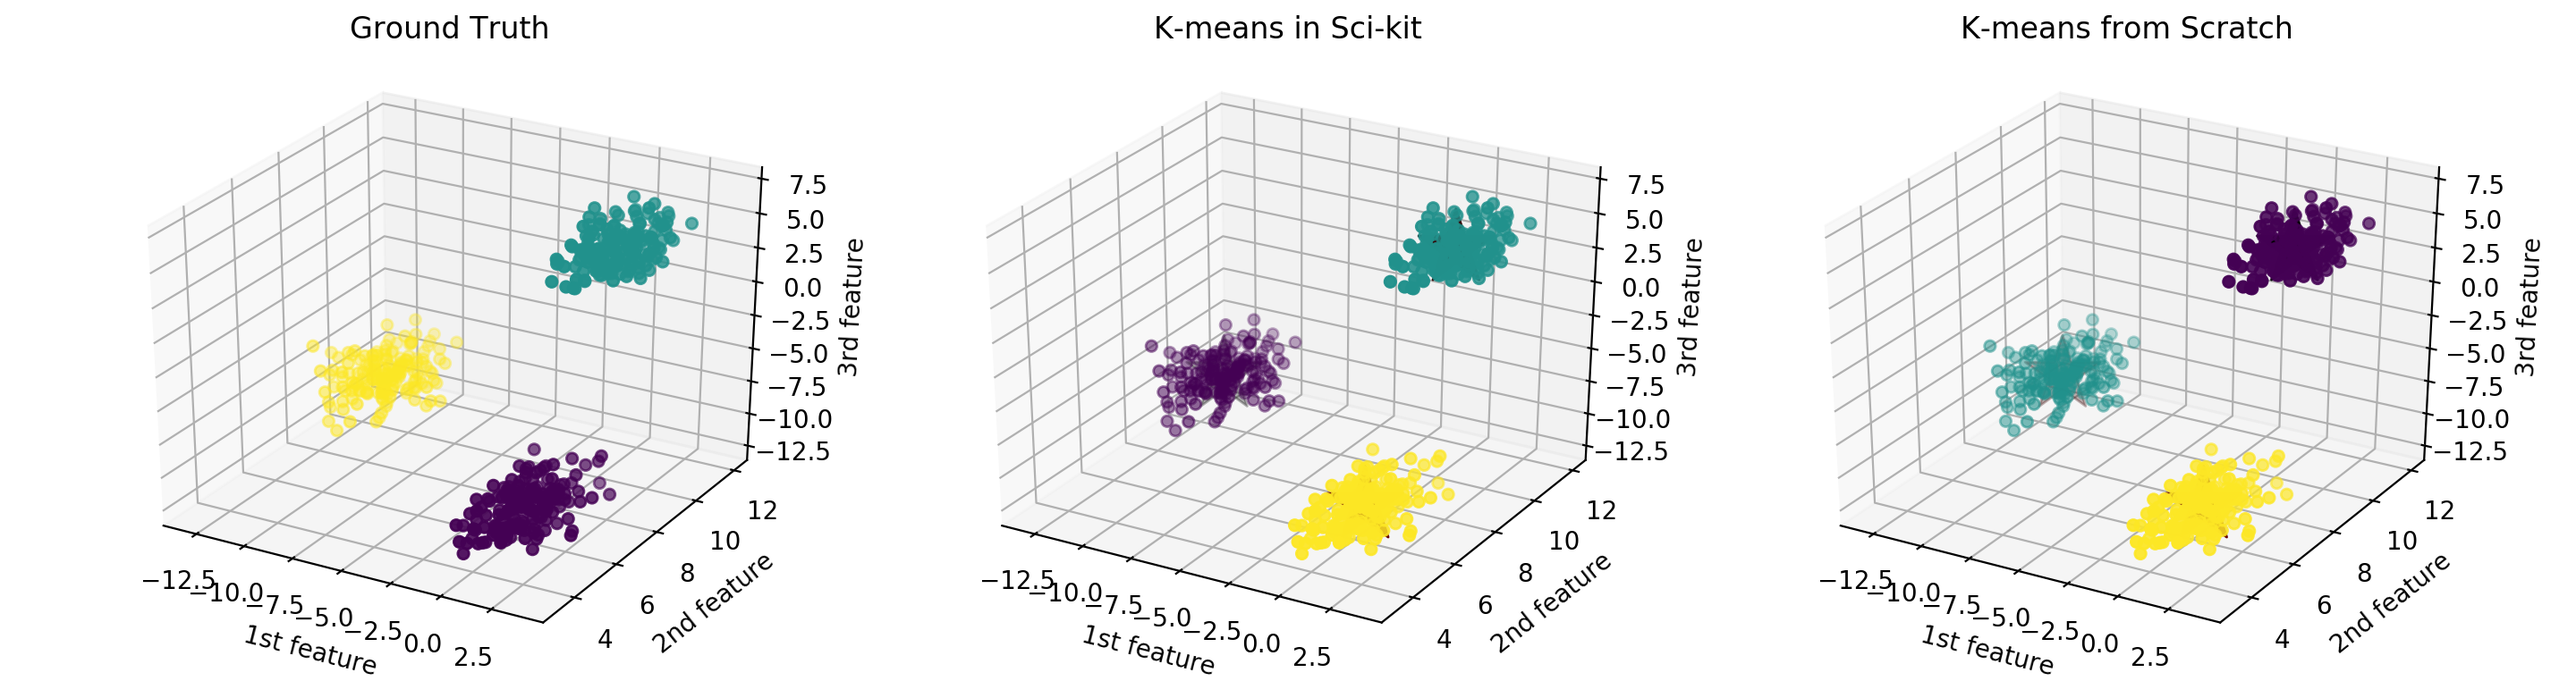
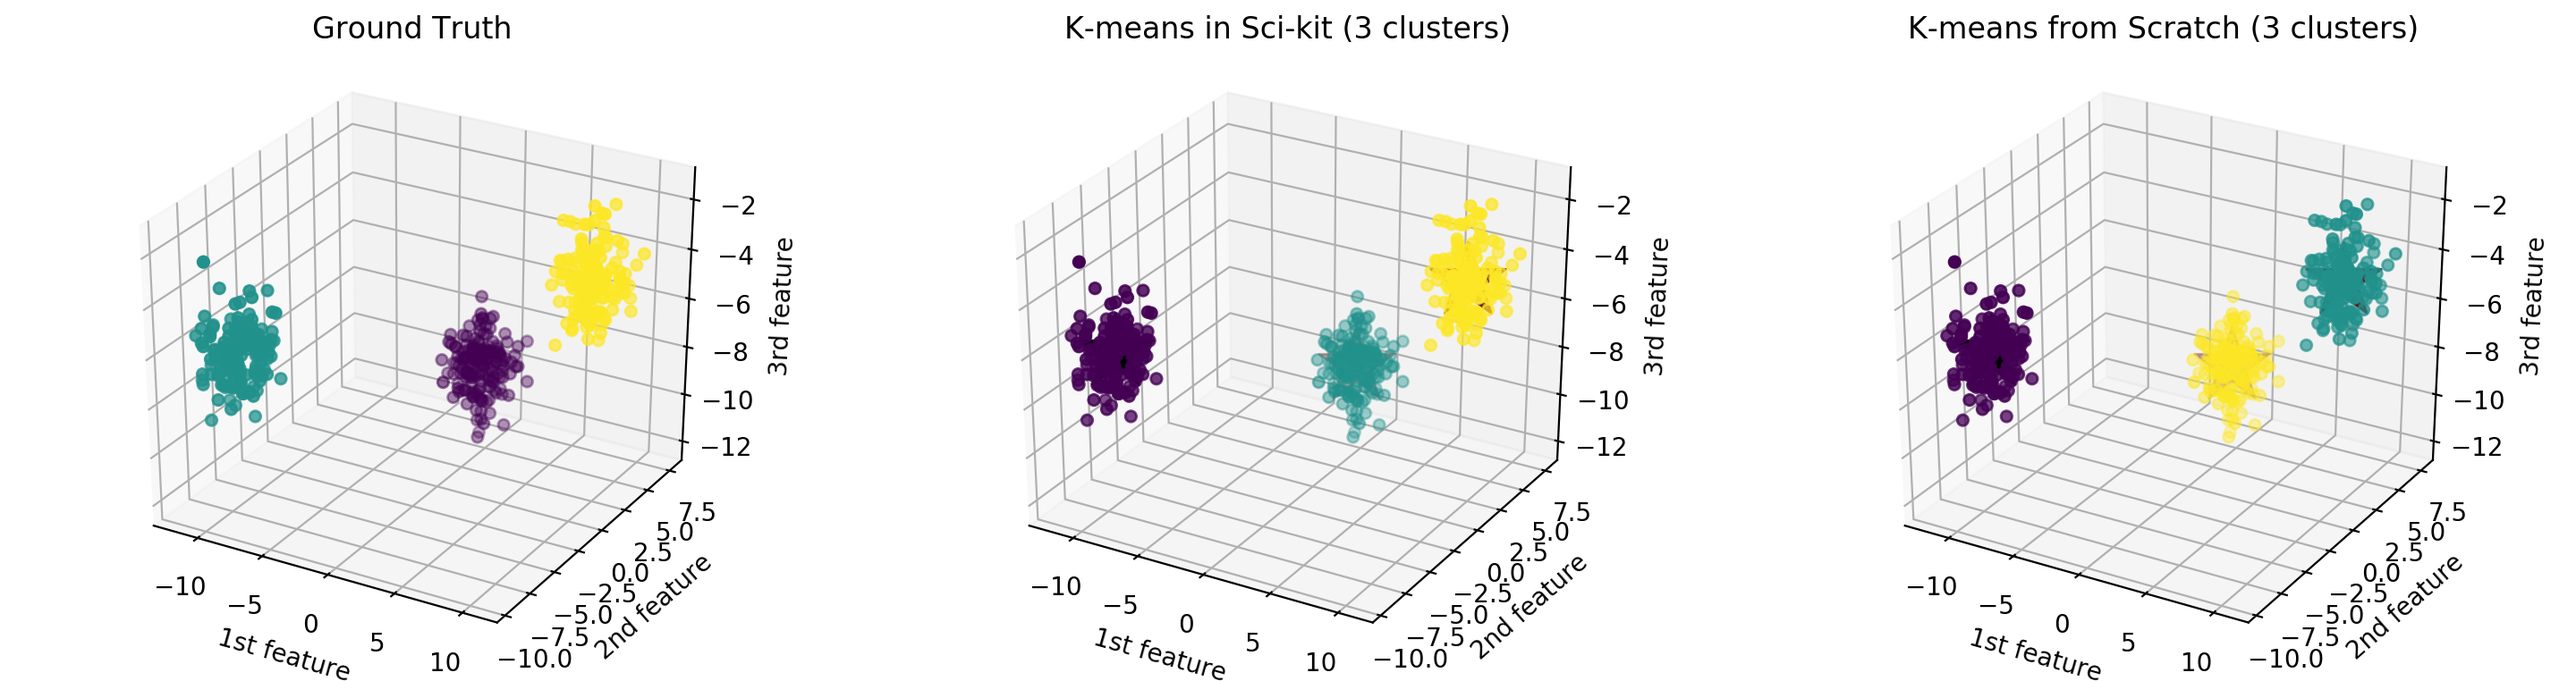
Update figures

diff --git a/demo_kmeans_Ndim_feature_space.py b/demo_kmeans_Ndim_feature_space.py
@@ -228,7 +228,7 @@ ax.scatter(X[:, 0], X[:, 1], X[:, 2], c=Y_pred_sci)
 ax.scatter(C[:, 0], C[:, 1], C[:, 2], marker='*', c=rgba[:ncls, :], s=1000)
 plt.tight_layout()
 
-ax.set_title('K-means in Sci-kit')
+ax.set_title('K-means in Sci-kit (%d clusters)' % ncls)
 ax.set_xlabel('1st feature')
 ax.set_ylabel('2nd feature')
 ax.set_zlabel('3rd feature')
@@ -251,7 +251,7 @@ ax.scatter(X[:, 0], X[:, 1], X[:, 2], c=Y_pred_scratch)
 ax.scatter(C[:, 0], C[:, 1], C[:, 2], marker='*', c=rgba[:ncls, :], s=1000)
 plt.tight_layout()
 
-ax.set_title('K-means from Scratch')
+ax.set_title('K-means from Scratch (%d clusters)' % ncls)
 ax.set_xlabel('1st feature')
 ax.set_ylabel('2nd feature')
 ax.set_zlabel('3rd feature')

diff --git a/README.md b/README.md
@@ -64,13 +64,26 @@ $$
 -->
 
 ## Results
-![alt text](./img/init_point_kmeanspp.png "Cost function (WCSS) of elbow method")
 
+### Elbow method for choosing optimal number of clusters (optimal number=3)
 ![alt text](./img/elbow_method.png "Cost function (WCSS) of elbow method")
 
 ![alt text](./img/elbow_method_clustering.png "K-means clustering along the number of clusters")
 
+---
+
+### K-means++ for choosing initial centroid point of k-clusters (k=3)
+![alt text](./img/init_point_kmeanspp.png "Choose initial centroid point using Kmeans++ algorithm")
+
+---
+
+### K-means for N-dimensional feature dataset
+
 ![alt text](./img/Ndim_kmeans.png "Comparision between Sci-kit pakcage and scrath script")
+
+---
+
+### K-means for image segmentation
 
 ![alt text](./img/img_kmeans_2clusters.png "K-means clustering when k = 2")
 ![alt text](./img/img_kmeans_3clusters.png "K-means clustering when k = 3")
